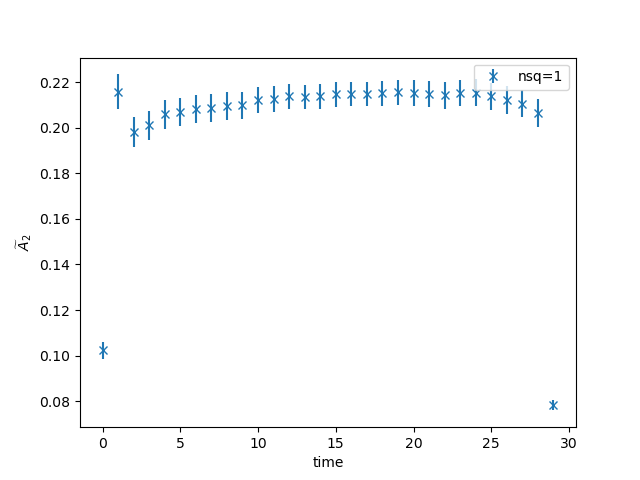
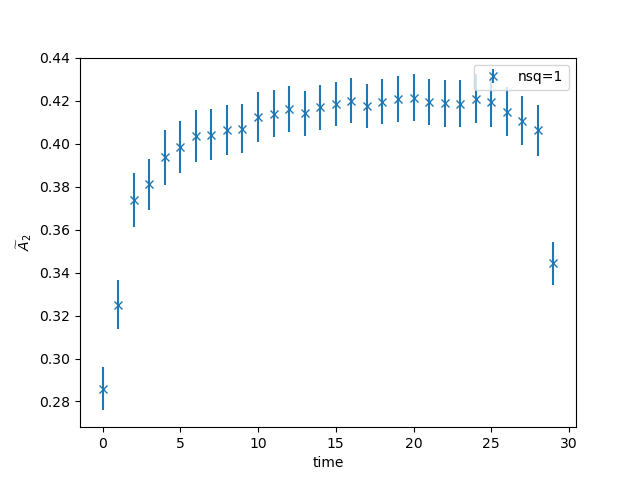
Changed prefactors etc for A2

diff --git a/A2-Av-improved-old.py b/A2-Av-improved-old.py
@@ -125,9 +125,8 @@ md=mdlist[nsq]
 
 mb = 1.92498840332032
 md0 = 0.73483032
-pre=-md0**2*(mb-md)/(2*(mb**2*md))
-#pre2=-(mb+md)
-pre2=1/md0**2
+pre=md0**2*(mb-md)/(2*(mb**2*md))
+pre2=-(mb+md)
 
 nconf=98
 dt=30
@@ -135,32 +134,32 @@ ts=96
 
 # Initialize arrays
 
-av1n0=np.zeros((nmom, dt+1,nconf))
+av1n0=np.zeros((nmom, dt,nconf))
 for i in range(nmom):
-    av1n0[i]=np.zeros((dt+1, nconf))
+    av1n0[i]=np.zeros((dt, nconf))
 
-av1n02=np.zeros((nmom2, dt+1,nconf))
+av1n02=np.zeros((nmom2, dt,nconf))
 for i in range(nmom2):
-    av1n02[i]=np.zeros((dt+1, nconf))
+    av1n02[i]=np.zeros((dt, nconf))
 
 
-avdx = np.zeros((dt+1, nconf))
-avdy = np.zeros((dt+1, nconf))
-avdz = np.zeros((dt+1, nconf))
-avb = np.zeros((dt+1, nconf))
-avn0 = np.zeros(dt+1)
+avdx = np.zeros((dt, nconf))
+avdy = np.zeros((dt, nconf))
+avdz = np.zeros((dt, nconf))
+avb = np.zeros((dt, nconf))
+avn0 = np.zeros(dt)
 
-findx = np.zeros(dt+1)
-findy = np.zeros(dt+1)
-findz = np.zeros(dt+1)
-finb = np.zeros(dt+1)
-fin3pt=np.zeros((dt+1,nmom))
+findx = np.zeros(dt)
+findy = np.zeros(dt)
+findz = np.zeros(dt)
+finb = np.zeros(dt)
+fin3pt=np.zeros((dt,nmom))
 
-fin3pt2 =np.zeros((dt+1,nmom2))
+fin3pt2 =np.zeros((dt,nmom2))
 
 
 # Loop optsmizatsons
-for j in range(dt+1):
+for j in range(dt):
     
     temp=np.zeros(nmom)
     temp2=np.zeros(nmom2)  
@@ -177,10 +176,10 @@ for j in range(dt+1):
         tmp2=[np.mean((np.real(dsets2[i][k, :, j]) + np.real(dsetsb2[i][k, :, dt-j]))) / 2 for i in range(nmom2)]
         
             
-        tmpdx = np.mean(np.real(dsxn0[k, :, j]) + np.real(dsxn0[k, :, ts-j])) / 2 if j != 0 else np.mean(np.real(dsxn0[k, :, 0]))
-        tmpdy = np.mean(np.real(dsyn0[k, :, j]) + np.real(dsyn0[k, :, ts-j])) / 2 if j != 0 else np.mean(np.real(dsyn0[k, :, 0]))
-        tmpdz = np.mean(np.real(dszn0[k, :, j]) + np.real(dszn0[k, :, ts-j])) / 2 if j != 0 else np.mean(np.real(dszn0[k, :, 0]))
-        tmpb = np.mean(np.real(bsn0[k, :, j]) + np.real(bsn0[k, :, ts-j])) / 2 if j != 0 else np.mean(np.real(bsn0[k, :, 0]))
+        tmpdx = np.mean(np.real(dsxn0[k, :, j+1]) + np.real(dsxn0[k, :, ts-1-j])) / 2 if j != 0 else np.mean(np.real(dsxn0[k, :, 0]))
+        tmpdy = np.mean(np.real(dsyn0[k, :, j+1]) + np.real(dsyn0[k, :, ts-1-j])) / 2 if j != 0 else np.mean(np.real(dsyn0[k, :, 0]))
+        tmpdz = np.mean(np.real(dszn0[k, :, j+1]) + np.real(dszn0[k, :, ts-1-j])) / 2 if j != 0 else np.mean(np.real(dszn0[k, :, 0]))
+        tmpb = np.mean(np.real(bsn0[k, :, j+1]) + np.real(bsn0[k, :, ts-1-j])) / 2 if j != 0 else np.mean(np.real(bsn0[k, :, 0]))
 
         for l in range(nmom):
             av1n0[l][j,k]=tmp[l]
@@ -206,17 +205,17 @@ for j in range(dt+1):
     fin3pt[j]=temp
     fin3pt2[j]=temp2
     
-for j in range(dt+1):    
-    avn0[j]=pre*(pre2*sum_with_exceptions(fin3pt2[j])+sum_with_exceptions(fin3pt[j]))/(np.sqrt(1/3*(findx[j]+findy[j]+findz[j])*finb[dt-j]))*np.sqrt((4*mb*md)/(np.exp(-md*j)*np.exp(-mb*(dt-j))))
+for j in range(dt):    
+    avn0[j]=pre*(pre2*(sum_with_exceptions(fin3pt2[j]))*(1/md-1)*(mb+md0)-((sum_with_exceptions(fin3pt[j])/(np.sqrt(1/3*(findx[j]+findy[j]+findz[j])*finb[dt-1-j]))))*np.sqrt((4*mb*md)/(np.exp(-md*j)*np.exp(-mb*(dt-j)))))
     
 
-errn0=np.zeros(shape=(dt+1))
+errn0=np.zeros(shape=(dt))
 #errnn0=np.zeros(shape=(96))
 
-for j in range(dt+1):
+for j in range(dt):
     x=0
     for i in range(nconf):
-        x=x+(pre*(pre2*sum_with_exceptions_jack(av1n02, j, i)+sum_with_exceptions_jack(av1n0, j, i))/(np.sqrt(1/3*(jack(avdx[j],i)+jack(avdy[j],i)+jack(avdz[j],i))*jack(avb[dt-j],i)))*np.sqrt((4*dsfit['EffectiveMass'][i]*bsfit['EffectiveMass'][i])/(np.exp(-dsfit['EffectiveMass'][i]*j)*np.exp(-bsfit['EffectiveMass'][i]*(dt-j))))-avn0[j])**2
+        x=x+(pre*(pre2*sum_with_exceptions_jack(av1n02, j, i)*(1/dsfit['EffectiveMass'][i]-1)*(bsfit['EffectiveMass'][i]+ds0fit['EffectiveMass'][i])-((sum_with_exceptions_jack(av1n0, j, i))/(np.sqrt(1/3*(jack(avdx[j],i)+jack(avdy[j],i)+jack(avdz[j],i))*jack(avb[dt-1-j],i)))*np.sqrt((4*dsfit['EffectiveMass'][i]*bsfit['EffectiveMass'][i])/(np.exp(-dsfit['EffectiveMass'][i]*j)*np.exp(-bsfit['EffectiveMass'][i]*(dt-j))))))-avn0[j])**2
     errn0[j]=np.sqrt((nconf-1)/nconf*x) 
     #errnn0[j]=np.sqrt((98-1)/98*x)*10**(85)
 
@@ -248,8 +247,7 @@ for t1 in range(int(ts/2-1-reg_low-cut)):
         for i in range(nconf):  
             #+jack(av1n0xm[t1+reg_low],i)-jack(av1n0ym[t1+reg_low],i)+jack(av1n0zm[t1+reg_low],i)
             #+jack(av1n0xm[t2+reg_low],i)-jack(av1n0ym[t2+reg_low],i)+jack(av1n0zm[t2+reg_low],i)
-            x=x+(((pre2*sum_with_exceptions_jack(av1n02, t1+reg_low, i)-sum_with_exceptions_jack(av1n0, t1+reg_low, i))/(np.sqrt(1/3*(jack(avdx[t1+reg_low],i)+jack(avdy[t1+reg_low],i)+jack(avdz[t1+reg_low],i))*jack(avb[dt-(t1+reg_low)],i))))*np.sqrt((4*dsfit['EffectiveMass'][i]*bsfit['EffectiveMass'][i])/(np.exp(-dsfit['EffectiveMass'][i]*(t1+reg_low))*np.exp(-bsfit['EffectiveMass'][i]*(dt-(t1+reg_low)))))*pre-avn0[t1])
-            *(((pre2*sum_with_exceptions_jack(av1n02, t2+reg_low, i)-sum_with_exceptions_jack(av1n0, t2+reg_low, i))/(np.sqrt(1/3*(jack(avdx[t2+reg_low],i)+jack(avdy[t2+reg_low],i)+jack(avdz[t2+reg_low],i))*jack(avb[dt-(t2+reg_low)],i))))*np.sqrt((4*dsfit['EffectiveMass'][i]*bsfit['EffectiveMass'][i])/(np.exp(-dsfit['EffectiveMass'][i]*(t2+reg_low))*np.exp(-bsfit['EffectiveMass'][i]*(dt-(t2+reg_low)))))*pre-avn0[t2])            
+            x=x+(((pre2*sum_with_exceptions_jack(av1n02, t1+reg_low, i)*(1/dsfit['EffectiveMass'][i]-1)*(bsfit['EffectiveMass'][i]+ds0fit['EffectiveMass'][i]))-(sum_with_exceptions_jack(av1n0, t1+reg_low, i)/(np.sqrt(1/3*(jack(avdx[t1+reg_low],i)+jack(avdy[t1+reg_low],i)+jack(avdz[t1+reg_low],i))*jack(avb[dt-1-(t1+reg_low)],i))))*np.sqrt((4*dsfit['EffectiveMass'][i]*bsfit['EffectiveMass'][i])/(np.exp(-dsfit['EffectiveMass'][i]*(t1+reg_low))*np.exp(-bsfit['EffectiveMass'][i]*(dt-(t1+reg_low))))))*pre-avn0[t1])*(((pre2*sum_with_exceptions_jack(av1n02, t2+reg_low, i)*(1/dsfit['EffectiveMass'][i]-1)*(bsfit['EffectiveMass'][i]+ds0fit['EffectiveMass'][i]))-(sum_with_exceptions_jack(av1n0, t2+reg_low, i)/(np.sqrt(1/3*(jack(avdx[t2+reg_low],i)+jack(avdy[t2+reg_low],i)+jack(avdz[t2+reg_low],i))*jack(avb[dt-1-(t2+reg_low)],i))))*np.sqrt((4*dsfit['EffectiveMass'][i]*bsfit['EffectiveMass'][i])/(np.exp(-dsfit['EffectiveMass'][i]*(t2+reg_low))*np.exp(-bsfit['EffectiveMass'][i]*(dt-(t2+reg_low))))))*pre-avn0[t2])            
             '''
             if nmom==3 and nmom2==3:
                 x=x+(((pre2*(jack(av1n0xa[t1+reg_low],i)-jack(av1n0ya[t1+reg_low],i)+jack(av1n0za[t1+reg_low],i))/3*(1/md-1)*(mb+md0))-(((jack(av1n0x[t1+reg_low],i)-jack(av1n0y[t1+reg_low],i)+jack(av1n0z[t1+reg_low],i))/3)/(1/3*np.sqrt((jack(avdx[t1+reg_low],i)+jack(avdy[t1+reg_low],i)+jack(avdz[t1+reg_low],i))*jack(avb[t1+reg_low],i))))*np.sqrt((4*md*mb)/(np.exp(-md*(t1+reg_low))*np.exp(-mb*(30-(t1+reg_low))))))*pre-avn0[t1])*(((pre2*(jack(av1n0xa[t2+reg_low],i)-jack(av1n0ya[t2+reg_low],i)+jack(av1n0za[t2+reg_low],i))/3*(1/md-1)*(mb+md0))-(((jack(av1n0x[t2+reg_low],i)-jack(av1n0y[t2+reg_low],i)+jack(av1n0z[t2+reg_low],i))/3)/(1/3*np.sqrt((jack(avdx[t2+reg_low],i)+jack(avdy[t2+reg_low],i)+jack(avdz[t2+reg_low],i))*jack(avb[t2+reg_low],i))))*np.sqrt((4*md*mb)/(np.exp(-md*(t2+reg_low))*np.exp(-mb*(dt-(t2+reg_low))))))*pre-avn0[t2])            
@@ -272,7 +270,7 @@ mbar=minimize(chi,0.1,method='Nelder-Mead', tol=1e-6)
 
 def jackmass(t1,i):
     #+jack(av1n0xm[t1],i)-jack(av1n0ym[t1],i)+jack(av1n0zm[t1],i)
-    return pre*((pre2*sum_with_exceptions_jack(av1n02, t1, i)-sum_with_exceptions_jack(av1n0, t1, i))/(np.sqrt(1/3*(jack(avdx[t1],i)+jack(avdy[t1],i)+jack(avdz[t1],i))*jack(avb[dt-t1],i))))*np.sqrt((4*dsfit['EffectiveMass'][i]*bsfit['EffectiveMass'][i])/(np.exp(-dsfit['EffectiveMass'][i]*(t1))*np.exp(-bsfit['EffectiveMass'][i]*(dt-(t1))))
+    return pre*((pre2*sum_with_exceptions_jack(av1n02, t1, i)*(1/dsfit['EffectiveMass'][i]-1)*(bsfit['EffectiveMass'][i]+ds0fit['EffectiveMass'][i]))-(sum_with_exceptions_jack(av1n0, t1, i)/(np.sqrt(1/3*(jack(avdx[t1],i)+jack(avdy[t1],i)+jack(avdz[t1],i))*jack(avb[dt-1-t1],i))))*np.sqrt((4*dsfit['EffectiveMass'][i]*bsfit['EffectiveMass'][i])/(np.exp(-dsfit['EffectiveMass'][i]*(t1))*np.exp(-bsfit['EffectiveMass'][i]*(dt-(t1))))))
 
 def chijack(a,k):
     return np.dot(np.transpose([jackmass(i+reg_low,k)-a for i in range(int(ts/2-1-reg_low-cut))]),np.matmul(np.linalg.inv(covmat),[jackmass(i+reg_low,k)-a for i in range(int(ts/2-1-reg_low-cut))]))
